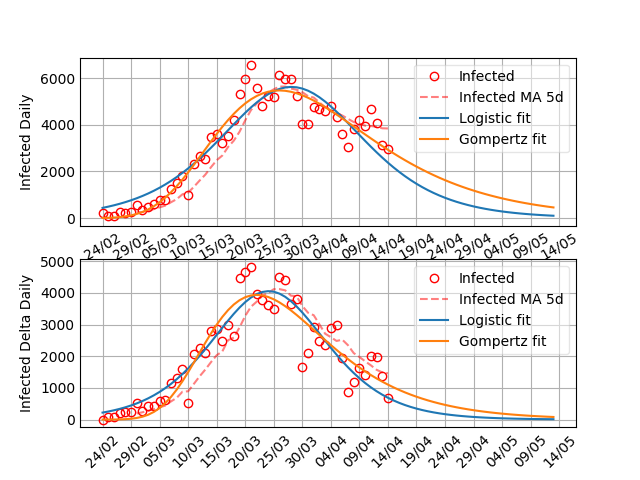
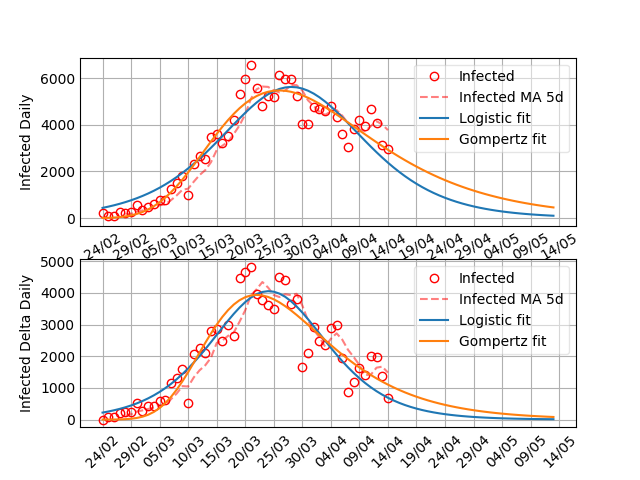
added forecast 15

diff --git a/run_infection_daily.py b/run_infection_daily.py
@@ -20,7 +20,7 @@ def main():
 
     infection = load_from_PC_increment_daily(remote=True)
     infection_extended = np.concatenate((infection.values, [None] * (DAYS - len(infection.values))))
-    infection_roll = infection.rolling(7).mean()
+    infection_roll = infection.rolling(5).mean()
     infection_roll_extended = np.concatenate((infection_roll.values, [None] * (DAYS - len(infection_roll.values))))
 
     x = np.arange(0, len(infection))
@@ -52,7 +52,7 @@ def main():
 
     delta_infection = load_from_PC_delta_infected_daily(remote=True)
     infection_delta_extended = np.concatenate((delta_infection.values, [None] * (DAYS - len(delta_infection.values))))
-    infection_delta_roll = delta_infection.rolling(7).mean()
+    infection_delta_roll = delta_infection.rolling(5).mean()
     infection_delta_roll_extended = np.concatenate((infection_delta_roll.values, [None] * (DAYS - len(infection_delta_roll.values))))
 
     x = np.arange(0, len(delta_infection))

diff --git a/run_sird_model.py b/run_sird_model.py
@@ -79,7 +79,7 @@ def main():
     plt.show()
 
 def error_function(I, R, D, infected, recovered, deaths):
-    a, b, c = 0.7, 0.15, 0.15
+    a, b, c = 0.33, 0.33, 0.33
     n_windows = 30
     #weights = np.linspace(0, 1, len(infected))
     #weights = np.ones(len(infected))
@@ -90,7 +90,7 @@ def error_function(I, R, D, infected, recovered, deaths):
     #plt.plot(weights_norm)
     #plt.show()
 
-    return a * mean_squared_error(infected, I, sample_weight=weights_norm) + a * mean_squared_error(recovered, R, sample_weight=weights_norm) + + a * mean_squared_error(deaths, D, sample_weight=weights_norm)
+    return a * mean_squared_error(infected, I, sample_weight=weights_norm) + b * mean_squared_error(recovered, R, sample_weight=weights_norm) + c * mean_squared_error(deaths, D, sample_weight=weights_norm)
 
 
 if __name__ == "__main__":

diff --git a/run_sir_model.py b/run_sir_model.py
@@ -133,7 +133,7 @@ def error_function_custom(I, R, infected, recovered):
     return a * mean_squared_error(infected, I, sample_weight=weights_norm) + (1 - a) * mean_squared_error(recovered, R, sample_weight=weights_norm)
 
 def error_function(I, R, infected, recovered):
-    a = 0.7
+    a = 0.5
     n_windows = 30
     #weights = np.linspace(0, 1, len(infected))
     #weights = np.ones(len(infected))

diff --git a/README.md b/README.md
@@ -68,3 +68,7 @@
 14/04|14/04
 ------------ | -------------
 ![forecast](/forecast_SIRD/COVID_forecast_14_04.png)|  ![forecast](/forecast_daily/COVID_forecast_14_04.png)|
+
+14/05|14/05
+------------ | -------------
+![forecast](/forecast_SIRD/COVID_forecast_15_04.png)|  ![forecast](/forecast_daily/COVID_forecast_15_04.png)|
